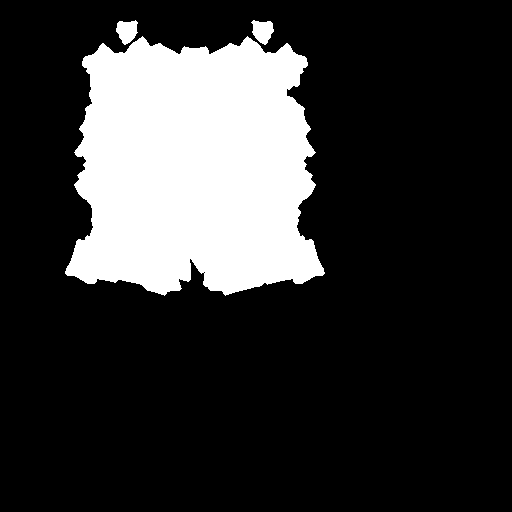
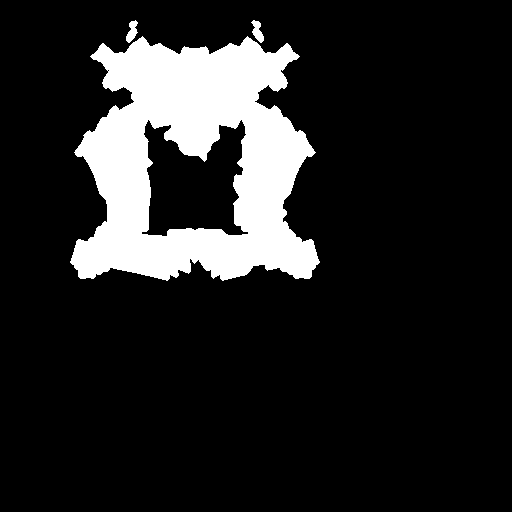
char3d: stop hiding the candidate's fit problem behind a wider mask
Raising MASK_NEAR from 0.035 to 0.09 took G6 from 5,730 px to 317 and looked
like progress. It was not. It is DELETING MORE BODY TO HIDE A GARMENT THAT DOES
NOT FIT, and it paid for the illusion in holes: the crotch, the inner thighs,
the inner arms -- places nothing covers.

Hidden-surface removal exists to delete skin that IS under cloth. Using it to
delete skin that is OUTSIDE cloth is the same error the swelled-garment approach
made from the other direction, and these two goals exist to catch exactly that.

Baked back at the shipping 0.035, and the numbers separate cleanly:

                        G6 through cloth   G7 holes   G7 by band
    pack                       17            353      chest 353
    candidate, NEAR 0.09      317           2006      chest 1333, waist 376, legs 278
    candidate, NEAR 0.035    5730            944      chest  290, waist 376, legs 278

The chest hole count falls from 1,333 to 290 -- level with the pack's own 353
rim -- so EVERY chest hole was the mask reaching across the armpit gap and
deleting torso skin on the strength of a sleeve that was not in front of it. It
was never a defect of the body.

What is left is the truth, and both halves of it are the refit's to fix:

  * 5,730 px of genuine poke-through. The pack's ranger set does not fit this
    torso and the mask is not allowed to pretend otherwise.
  * 654 px of genuine holes at waist and legs, unchanged at every threshold --
[…]

diff --git a/godot/docs/Testing.md b/godot/docs/Testing.md
@@ -67,8 +67,8 @@ the thresholds trustworthy rather than argued about.
 | G3 STANCE | height and span within 6% of the pack body | 1.820 / 1.859 | +0.6% / +4.0% |
 | G4 EYES | the eye mesh sits inside the skull rather than floating off it | ok | ok |
 | G5 MASKS | a mask per worn garment, present **and** neither blank nor solid | 4 sane | 4 sane |
-| G6 CLOTHED | **no skin visible through cloth** | 17 px | 317 px |
-| G7 INTACT | **no skin deleted where nothing covers it** | 353 px | **2,006 px — unmet** |
+| G6 CLOTHED | **no skin visible through cloth** | 17 px | **5,730 px — unmet** |
+| G7 INTACT | **no skin deleted where nothing covers it** | 353 px | **944 px — unmet** |
 
 **G6 and G7 use no colour heuristic at all**, which is what makes them worth
 believing. G6 renders the dressed figure twice — once normally, once with the
@@ -113,16 +113,27 @@ With that instrument sharpened, sweeping `MASK_NEAR` **decomposes the failure**:
 setting. Only the chest band scales. So the candidate has TWO independent
 defects, and they were indistinguishable while G7 was one number:
 
-- **The chest band is the threshold.** It grows with `MASK_NEAR` because a wider
-  radius reaches across the armpit gap and deletes torso skin on the strength of
-  a sleeve that is not in front of it. Tunable, and tuning it trades against G6.
-- **The waist and legs are a FIT defect**, ~654 px of it, immune to every
-  setting. The map shows a solid wedge at the crotch: the refitted leggings
-  genuinely do not cover the inner thigh on this body. No mask rule reaches it.
+- **The chest band was the threshold, and nothing else.** Baked at the shipping
+  0.035 it falls to **290**, level with the pack's own 353 rim. Every chest hole
+  was the mask reaching across the armpit gap and deleting torso skin on the
+  strength of a sleeve that is not in front of it.
+- **The waist and legs are a FIT defect**, ~654 px, immune to every setting. The
+  map shows a solid wedge at the crotch: the refitted leggings genuinely do not
+  cover the inner thigh on this body. No mask rule reaches it.
 
-That is why no value passes both, and it is a better answer than "the threshold
-only chooses which failure to have" — half the failure was never the threshold's
-to choose.
+### And the candidate is baked at 0.035, not 0.09, on purpose
+
+Raising `MASK_NEAR` to 0.09 took G6 from 5,730 to 317 and looked like progress.
+It is not: it is **deleting more body to hide a garment that does not fit**, and
+it paid for the illusion with 1,043 px of holes at the crotch and inner arms —
+places nothing covers.
+
+Hidden-surface removal is meant to delete skin that IS under cloth. Using it to
+delete skin that is *outside* cloth is the same error the swelled-garment
+approach made from the other direction, and it is exactly what these two goals
+exist to catch. So the candidate keeps the shipping value and both numbers report
+the truth: the wardrobe does not fit this body yet, and that is a refit problem,
+not a masking one.
 
 So the MakeHuman body is marked a **candidate** in the harness: its goals are
 measured and printed like any other, it does not fail the run — nothing in the
